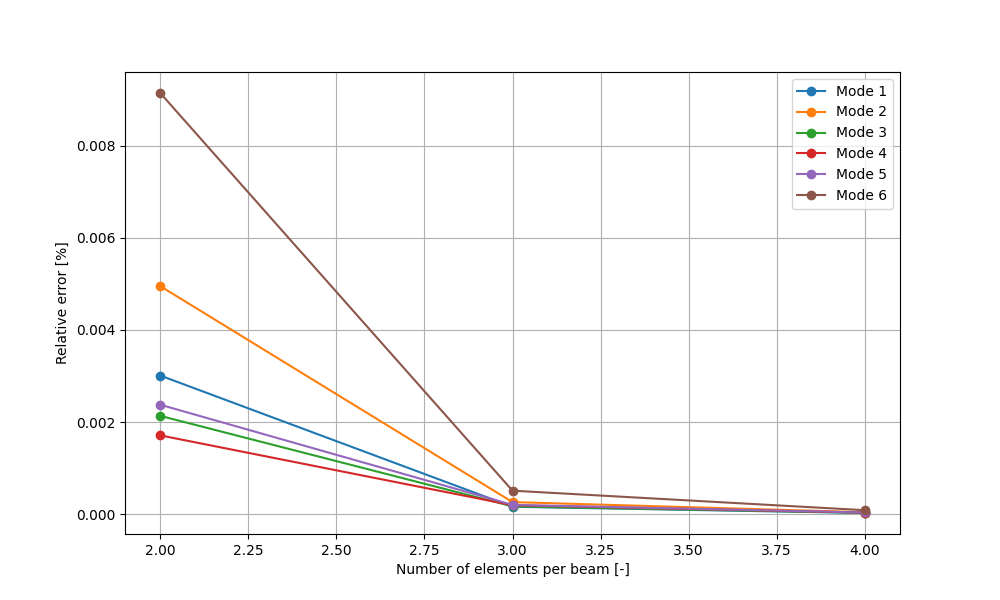
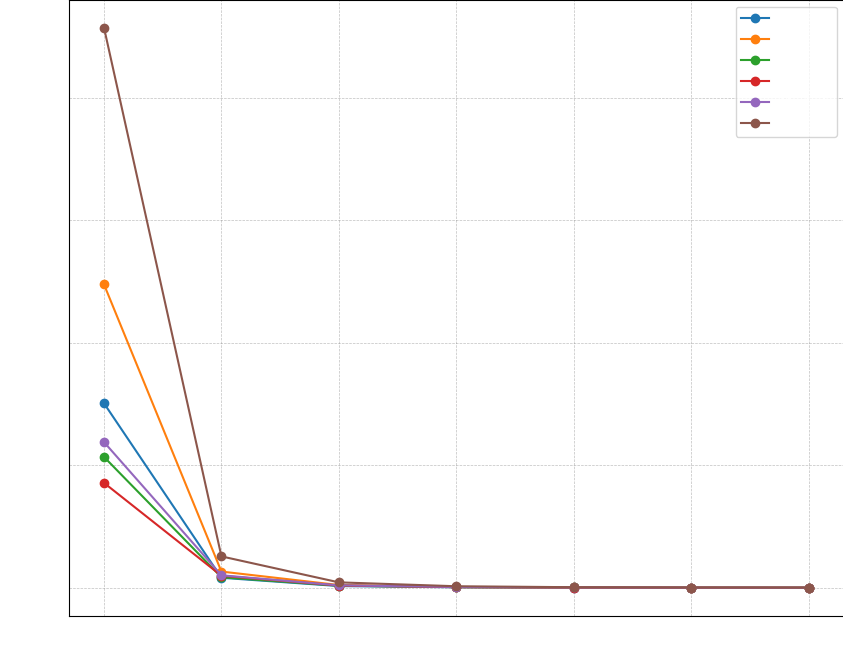
ok

diff --git a/part1/convergence_part1.py b/part1/convergence_part1.py
@@ -4,42 +4,13 @@ from mpl_toolkits.mplot3d import axes3d, Axes3D
 pi = np.pi
 
 from FEM import *
-from theory_of_vibration.part1.Tools_part1 import *
 from set_parameters import *
 
-def plotConvergence(elem_per_beam_list, eigen_freq_matrix):
-
-    eigen_freq_matrix = np.array(eigen_freq_matrix)  
-    relative_errors = np.zeros((len(elem_per_beam_list)-1, eigen_freq_matrix.shape[1]))
-
-    for i in range(len(elem_per_beam_list)-1):
-        relative_errors[i] = abs((eigen_freq_matrix[i+1] - eigen_freq_matrix[i]) / eigen_freq_matrix[i] * 100)
-
-    plt.figure(figsize=(10, 6))
-
-    for i in range(relative_errors.shape[1]):
-        plt.plot(elem_per_beam_list[1:], relative_errors[:, i], marker='o', label=f'Mode {i+1}')
-
-    plt.xlabel('Number of elements per beam [-]')
-    plt.ylabel('Relative error [%]')
-    plt.legend()
-    plt.grid(True)
-    
-    plt.savefig('theory_of_vibration/part1/Pictures/convergence_part1.png')
-    plt.savefig('theory_of_vibration/part1/Pictures/convergence_part1.PDF')   
-
-    plt.show()
-
-
-
-def main():
-
-    geom_data, phys_data = setParams()
-    elem_per_beam_list = np.arange(1, 5, 1)
+def convergence(geom_data, phys_data, max_nb_elem, plot, github):
+    elem_per_beam_list = np.arange(1, max_nb_elem+1, 1)
     eigen_freq_matrix = []
 
     for elem_per_beam in elem_per_beam_list:
-
         # Define initial geometry
         nodes_list_init, nodes_pairs_init = initializeGeometry(geom_data, phys_data)
 
@@ -55,10 +26,39 @@ def main():
         eigen_vals, eigen_vectors = solver.solve()
         eigen_freq_matrix.append(eigen_vals)
 
-    plotConvergence(elem_per_beam_list, eigen_freq_matrix)
+    eigen_freq_matrix = np.array(eigen_freq_matrix)
+    
+    relative_errors = np.zeros((len(elem_per_beam_list)-1, eigen_freq_matrix.shape[1]))
 
+    for i in range(len(elem_per_beam_list)-1):
+        relative_errors[i] = abs((eigen_freq_matrix[i+1] - eigen_freq_matrix[i]) / eigen_freq_matrix[i] * 100)
 
-if __name__  == "__main__":
-    main()
+    plt.figure(figsize=(10, 8))
 
+    for i in range(relative_errors.shape[1]):
+        plt.plot(elem_per_beam_list[1:], relative_errors[:, i], marker='o', label=f'Mode {i+1}')
+
+    plt.xlabel('Number of elements per beam [-]', color='white' if github else 'black')
+    plt.ylabel('Relative error [%]', color='white' if github else 'black')
+    plt.legend()
+    plt.grid(True, color='gray', linestyle='--', linewidth=0.5, alpha=0.5)
+
+    if github:
+        plt.gca().set_facecolor('none')
+        plt.gcf().patch.set_alpha(0)
+        plt.tick_params(axis='x', colors='white')
+        plt.tick_params(axis='y', colors='white')
+        
+        # Change legend text color to white
+        legend = plt.gca().get_legend()
+        for text in legend.get_texts():
+            text.set_color("white")
+
+    if plot:
+        if github:
+            plt.savefig('part1/Pictures/convergence_part1.png', transparent=True, bbox_inches='tight', pad_inches=0)
+        else:
+            plt.savefig('part1/Pictures/convergence_part1.PDF')
+        
+        plt.show()
    

diff --git a/part1/main_part1.py b/part1/main_part1.py
@@ -7,6 +7,7 @@ pi = np.pi
 from FEM import *
 from Tools_part1 import *
 from set_parameters import *
+from convergence_part1 import *
 
 def main():
 
@@ -35,11 +36,11 @@ def main():
     # Display
     fig = plt.figure(figsize=(10, 8), facecolor='none', edgecolor='none')
     ax = fig.add_subplot(projection='3d')
-    
-    display(fig, ax, nodes_list, elems_list, geom_data, save=True, github=True)
+    #display(fig, ax, nodes_list, elems_list, geom_data, save=True, github=True)
     #plotModes(fig, ax, nodes_list, eigen_vectors[:,1], elems_list, geom_data["nodes_clamped"], save=True, github=True)
-    
     plt.show()
+
+    convergence(geom_data, phys_data, max_nb_elem=8, plot=True, github=True)
 
 if __name__  == "__main__":
     main()

diff --git a/part1/README.md b/part1/README.md
@@ -17,7 +17,6 @@ This part of the project focuses on the eigenvalue problem $\displaystyle \det(\
    - Solving the eigenvalue problem to obtain natural frequencies and mode shapes
 
 4. **Visualization**
-   - Representation of clamped nodes and lumped masses
    - Visualization of mode shapes with a color scale based on displacement amplitude
    ![mode](Pictures/mode_shape.png)
 
@@ -132,5 +131,3 @@ The natural frequencies and mode shapes are obtained by solving the eigenvalue p
 $\displaystyle (\mathbf{K} - \omega^2 \mathbf{M}) \mathbf{\phi} = \mathbf{0}$
 
 Where $\omega$ are the natural frequencies and $\mathbf{\phi}$ are the corresponding mode shapes.
-
-This formulation provides the foundation for the 3D structural finite element analysis, allowing for the computation of modal properties and the study of structural dynamics.
